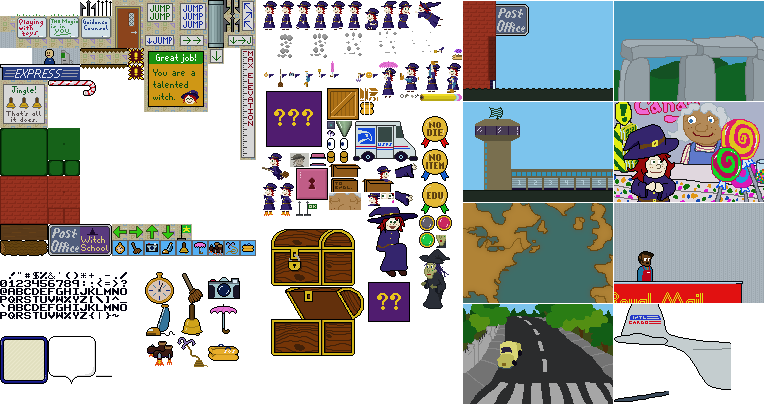
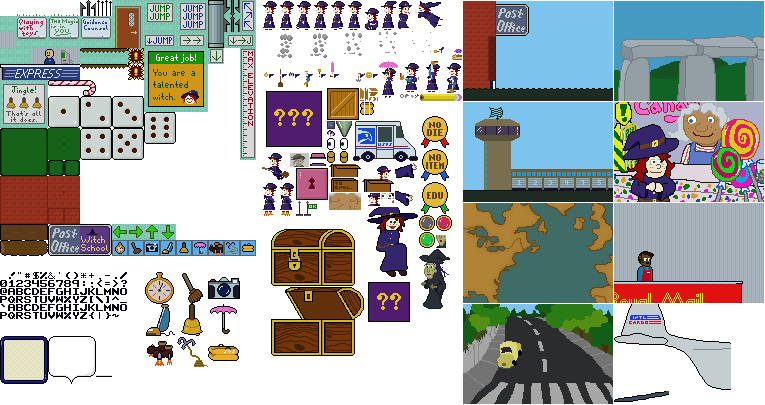
cosmetic graphics changes

Changed region(s): [[0.0, 0.0, 0.3608, 0.4148], [0.1203, 0.5333, 0.2706, 0.5926], [0.3007, 0.3852, 0.3307, 0.4148]]

diff --git a/src/www/js/game/Grid.js b/src/www/js/game/Grid.js
@@ -140,11 +140,11 @@ Grid.CELLPHYSICS = [
   0,0,0,0,0,2,2,2, 3,0,0,0,0,0,0,0,
   2,2,2,2,2,2,2,2, 3,0,0,0,0,0,0,0,
   0,0,0,2,2,2,0,0, 0,0,0,0,0,0,0,0,
-  0,0,0,0,0,0,0,0, 0,0,0,0,0,0,0,0,
-  0,0,0,0,0,0,0,0, 0,0,0,0,0,0,0,0,
+  0,0,0,1,1,1,1,1, 1,0,0,0,0,0,0,0,
+  0,0,0,1,1,1,1,1, 1,1,1,0,0,0,0,0,
   
-  1,1,1,1,1,0,0,0, 0,0,0,0,0,0,0,0,
-  1,1,1,1,1,0,0,0, 0,0,0,0,0,0,0,0,
+  1,1,1,1,1,1,1,1, 1,1,1,0,0,0,0,0,
+  1,1,1,1,1,1,1,1, 1,0,0,0,0,0,0,0,
   1,1,1,1,1,0,0,0, 0,0,0,0,0,0,0,0,
   1,1,1,1,1,0,0,0, 0,0,0,0,0,0,0,0,
   1,1,1,1,1,0,0,0, 0,0,0,0,0,0,0,0,

diff --git a/README.md b/README.md
@@ -8,15 +8,9 @@ https://github.com/aksommerville/too-heavy
 
 ## TODO
 
-- By 7 January -- game jam submission
-- - [ ] Confirm it runs sanely with a high-frequency monitor. Ask Rick.
-- - [ ] Enrich graphics.
-- Stretch goals, or after submission
-- - [x] More interesting song voices.
-- - [x] Capture and playback of sound effects, rather than synthesizing from scratch each time.
-- - - I'm not seeing any performance impact for the synth approach, no need to trade memory for it.
-- - [x] Touch input.
-- - - Scratch it; I'll never play on a phone, so it would not get maintained.
+- [ ] Confirm it runs sanely with a high-frequency monitor. Ask Rick.
+- [ ] Enrich graphics.
+- [ ] Can I loosen the trigger for long jump while running? I miss it a lot.
 
 ## High Scores
 
